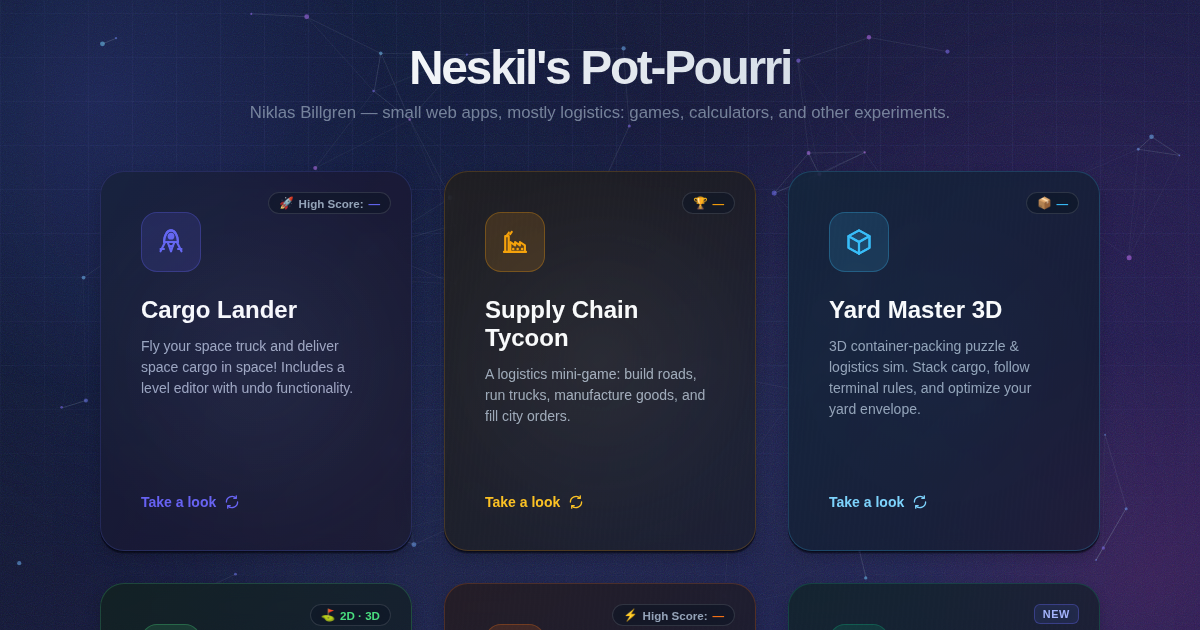
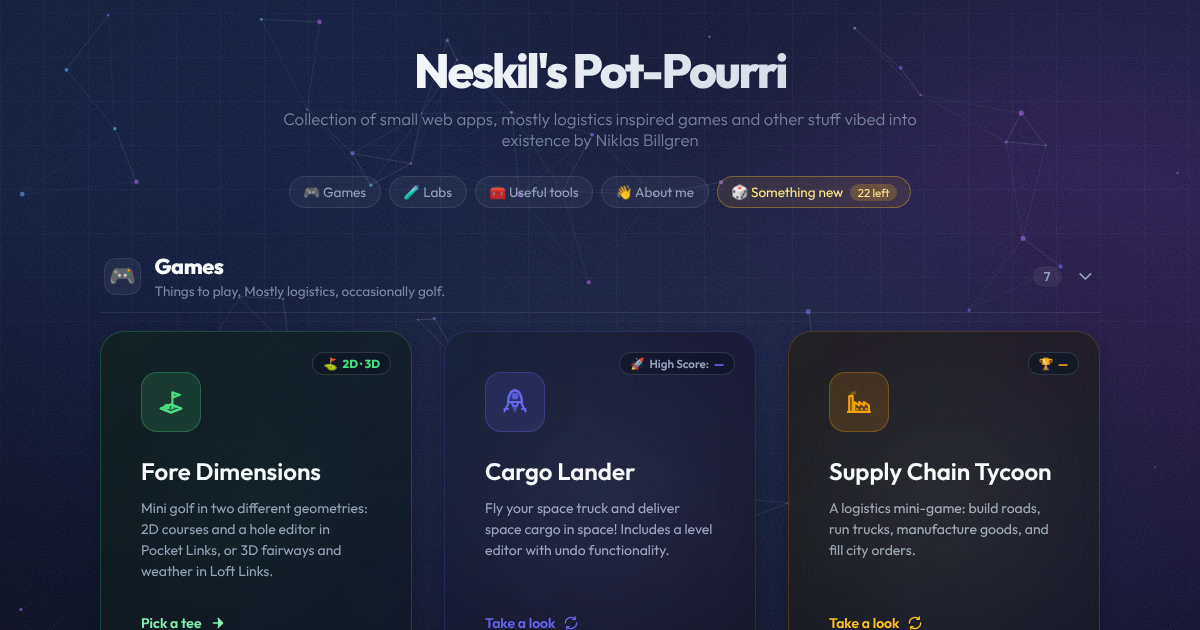
docs: refresh the homepage link preview to the current shelves layout
Claude-Session: https://claude.ai/code/session_01PYnhZFm15wTCkFpbW4rRYX

diff --git a/index.html b/index.html
@@ -18,7 +18,7 @@
     <meta property="og:image" content="https://neskil.github.io/assets/og/home.png">
     <meta property="og:image:width" content="1200">
     <meta property="og:image:height" content="630">
-    <meta property="og:image:alt" content="The Neskil's Pot-Pourri card grid, showing tiles for Cargo Lander, Supply Chain Tycoon and Yard Master 3D.">
+    <meta property="og:image:alt" content="The Neskil's Pot-Pourri landing page: shelf tabs for games, labs, useful tools and about, above the Games shelf with Fore Dimensions, Cargo Lander and Supply Chain Tycoon.">
     <meta name="twitter:card" content="summary_large_image">
     <link rel="preconnect" href="https://fonts.googleapis.com">
     <link rel="preconnect" href="https://fonts.gstatic.com" crossorigin>
